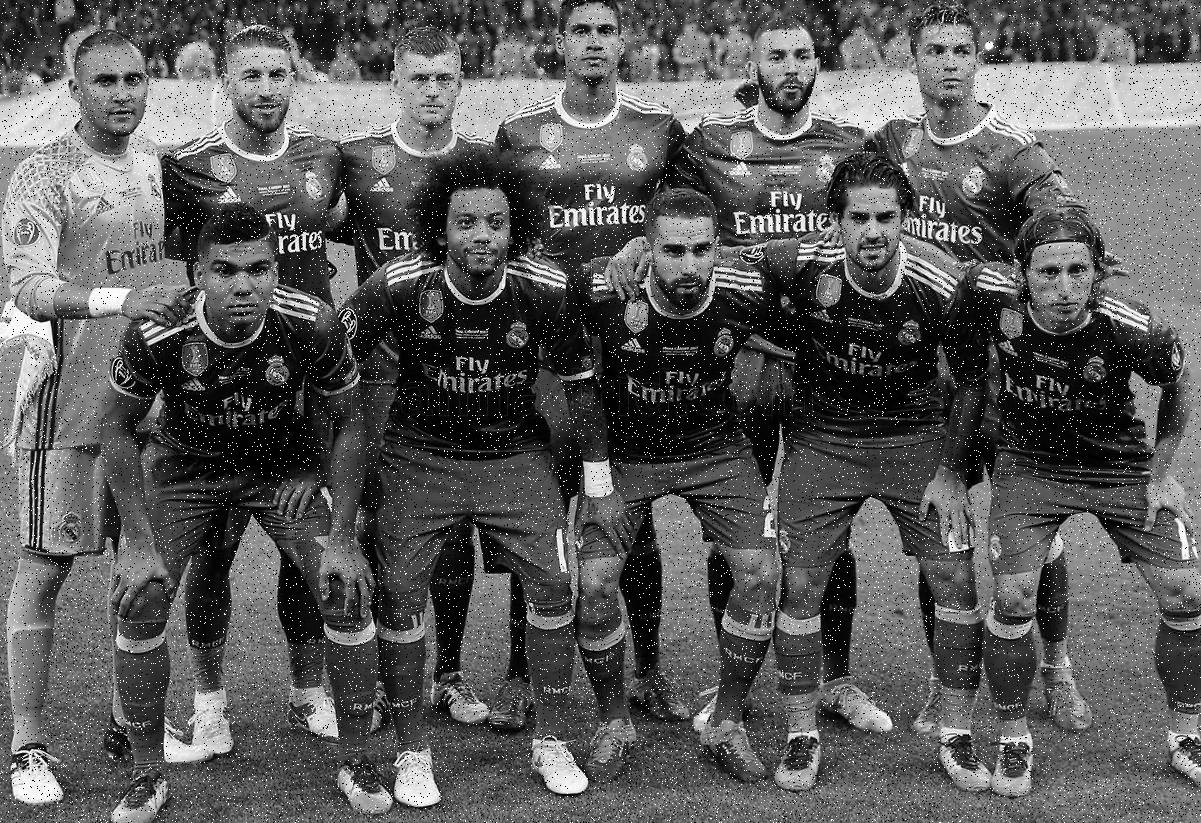
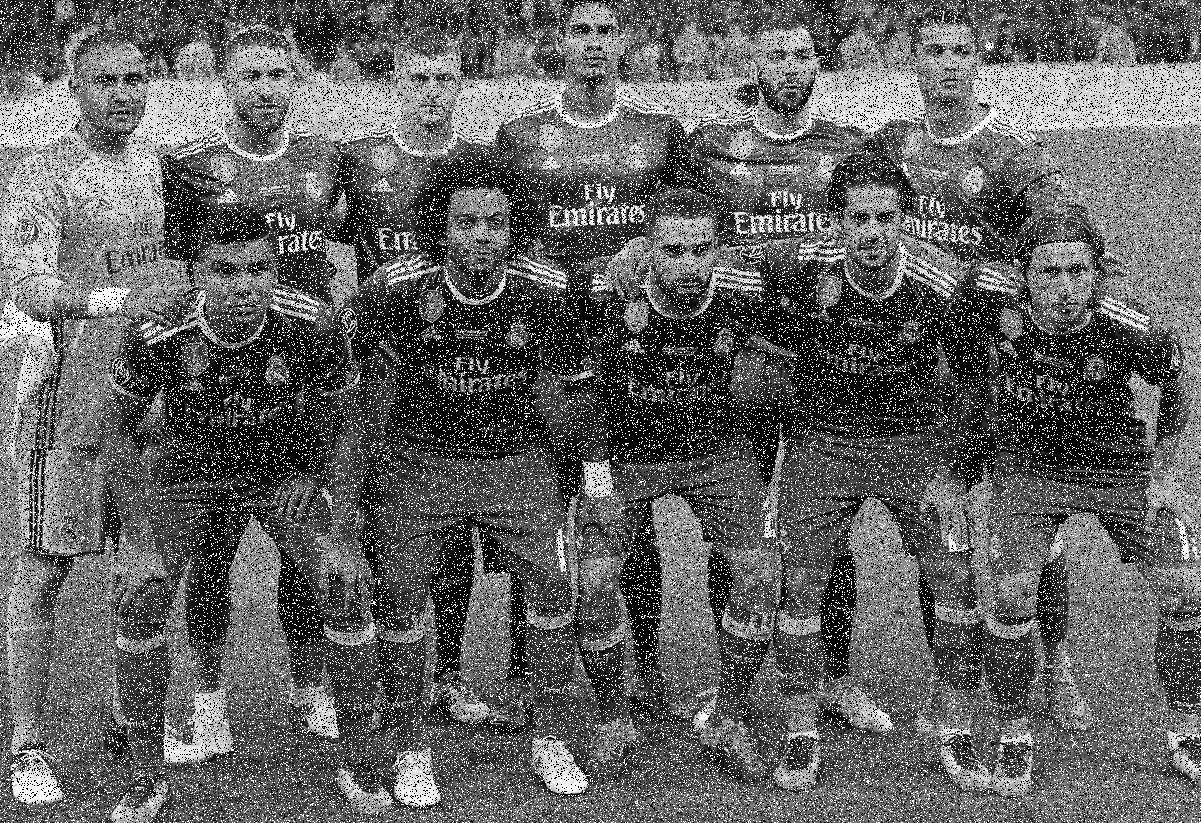
memperbarui kodingan

Changed region(s): [[0.0, 0.0, 1.0, 1.0]]

diff --git a/image_proccessing.py b/image_proccessing.py
@@ -1,11 +1,12 @@
 from skimage import io
 import numpy as np
 import cv2 as cv
+from skimage.morphology import disk
 from skimage.filters import median,butterworth
 from skimage import restoration,color
 import matplotlib.pyplot as plt
 from skimage.util import random_noise
-
+from scipy.signal import wiener 
 class ImageProcessing : 
   def __init__(self,file_location) : 
     self.img = io.imread(file_location)
@@ -38,7 +39,7 @@ class ImageProcessing :
     self.img = random_noise(self.img,mode="speckle",mean=0,var=0.05)
   
   def snp_noise(self) :
-    self.img = random_noise(self.img,mode="s&p")
+    self.img = random_noise(self.img,mode="s&p",amount=0.05)
   def gaussian_noise(self,mean=None,var=None) :
     if mean is None or var is None :
       self.img = random_noise(self.img,mode="gaussian")
@@ -52,12 +53,17 @@ class ImageProcessing :
     gambar*=255
     gambar = gambar.astype("uint8")
     io.imsave(filename,gambar)
-  def wiener_filter(self) :
-    self.img = restoration.wiener(self.img,psf=self.__psf,balance=0.5)
+  def wiener_filter(self,balance_val=0.5) :
+    self.img = restoration.wiener(self.img,psf=self.__psf,balance=balance_val)
   def median_filter(self) : 
     self.img= median(self.img)
   def butterworth_filter(self,orde=2) : 
     self.img = butterworth(self.img,order=orde)
+  
+  def median_modified_wiener_filter(self,median_size=3,wiener_size=3) :
+    self.img = median(self.img,disk(median_size))
+    self.img = wiener(self.img,mysize=wiener_size)
+
   @property
   def get_matrix_img(self) : 
     return self.img

diff --git a/main.py b/main.py
@@ -1,24 +1,19 @@
 from image_proccessing import ImageProcessing
-from criteria import MSE,PSNR,SNR,SSIM
-import matplotlib.pyplot as plt
-import numpy as np
-from skimage import io
 img = ImageProcessing("./img/madrid-fullhd.jpg")
-
 img.grayscale()
 img.gaussian_noise(0,0.05)
-img.butterworth_filter()
-img.img*=255
-img.img = np.array(img.img)
-r,c=0,0
-for i in img.img : 
-  for j in i : 
-    j=0
-    if j <0 : 
-      img.img[r][c] = 0
-    c+=1  
-  r+=1
-
-print(img.img)
+img.wiener_filter()
+img.wiener_filter()
+img.wiener_filter()
+img.wiener_filter()
+  # img.save("./img/mmwf-snp.jpg")
 img.show()
-print(img.img.shape)
+exit()
+try :
+  pass
+except RuntimeWarning : 
+  print("Can't divide by zero")
+except : 
+  print("Something went wrong")
+finally : 
+  print("Done  :)")

diff --git a/detect_face.py b/detect_face.py
@@ -19,7 +19,7 @@ def close_window() :
   exit()
 def main() :
   try : 
-    if os.path.exists(image_location := "./img/snp-bw.png") : 
+    if os.path.exists(image_location := "./poisson.jpg") : 
       frame = cv.imread(image_location) 
       # frame = cv.cvtColor(frame,cv.COLOR_RGB2BGR)
       drawer_box(frame)

diff --git a/tes.py b/tes.py
@@ -1,8 +1,1 @@
-import numpy as np
-import cv2 as cv
-
-blank = np.ones((500,500),dtype="uint8")
-blank*=255
-print(blank)
-cv.imshow("blank", blank)
-cv.waitKey(0)
+from scipy.signal import wiener
